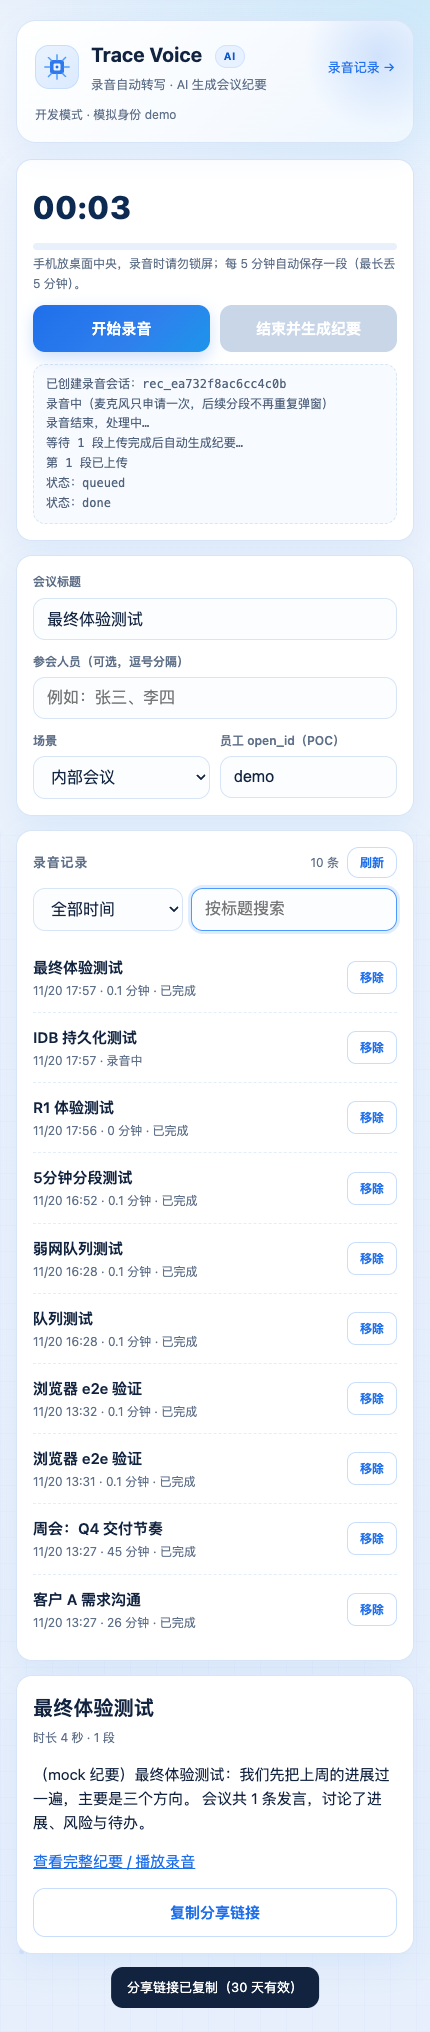
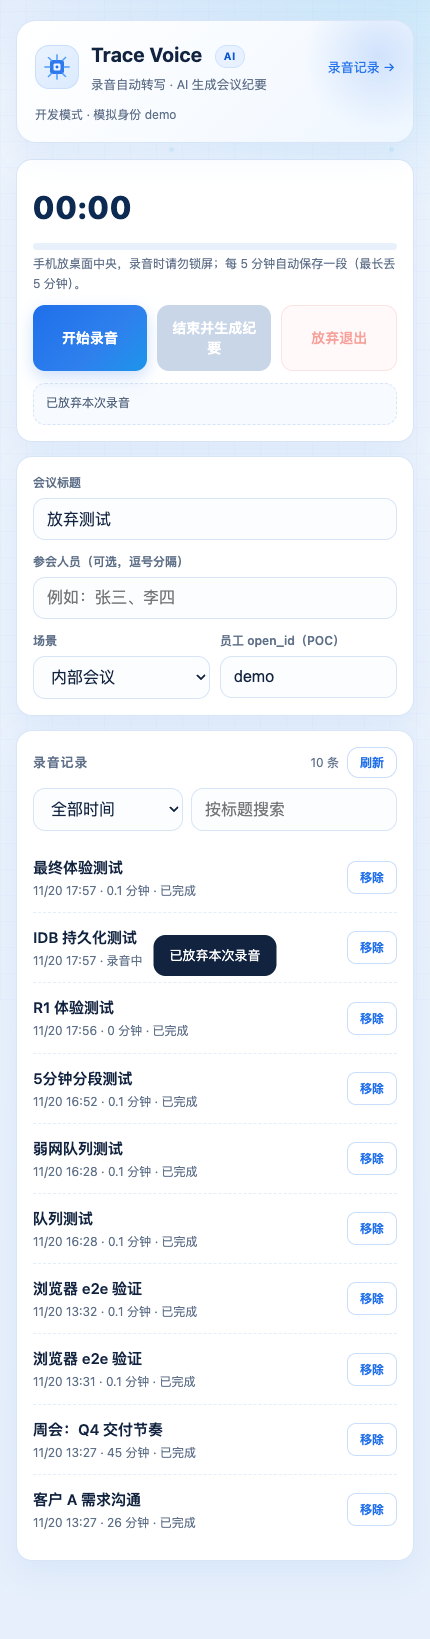
feishu-voice-recorder: 录音页新增「放弃退出」按钮
- 开始录音旁新增「放弃退出」：二次确认后停止录音、清空待上传队列并删除该录音
- 结束按钮文案精简为「结束生成纪要」，三按钮单行显示
- 录音状态统一由 setRecordingButtons 控制
- 浏览器实测：放弃后记录数不变、界面复位

Changed region(s): [[0.0302, 0.0, 0.9674, 0.9957]]

diff --git a/feishu-voice-recorder/web/recorder.html b/feishu-voice-recorder/web/recorder.html
@@ -37,7 +37,8 @@
     <div class="meta" id="hint">手机放桌面中央，录音时请勿锁屏；每 5 分钟自动保存一段（最长丢 5 分钟）。</div>
     <div class="row">
       <button id="btnStart">开始录音</button>
-      <button id="btnStop" class="danger" disabled>结束并生成纪要</button>
+      <button id="btnStop" class="danger" disabled title="结束并生成纪要">结束生成纪要</button>
+      <button id="btnAbort" class="ghost abort" disabled>放弃退出</button>
     </div>
     <div class="log" id="status" style="margin-top:12px"></div>
     <div class="row" id="retryBox" style="display:none"><button id="btnRetryUpload" class="danger">重试上传本段</button></div>
@@ -463,6 +464,12 @@ async function createRecording() {
     body: JSON.stringify({ title: $('#title').value.trim() || autoTitle(), scene: $('#scene').value }),
   });
 }
+function setRecordingButtons(recording) {
+  $('#btnStart').disabled = recording;
+  $('#btnStop').disabled = !recording;
+  $('#btnAbort').disabled = !recording;
+}
+
 function tick() {
   if (!state.running) return;
   const elapsed = Date.now() - state.startedAt;
@@ -506,8 +513,7 @@ async function startSession() {
   idbClear();
   localStorage.setItem('fm_rid', rec.id);
   log('已创建录音会话：' + rec.id);
-  $('#btnStart').disabled = true;
-  $('#btnStop').disabled = false;
+  setRecordingButtons(true);
   state.rec = new WavRecorder();
   await state.rec.start();
   acquireWakeLock();
@@ -526,7 +532,7 @@ async function stopSession() {
   clearInterval(state.tick);
   if (wakeLock) { try { await wakeLock.release(); } catch (e) {} wakeLock = null; }
   $('#dot').style.display = 'none';
-  $('#btnStop').disabled = true;
+  setRecordingButtons(false);
   const blob = state.rec.flush();
   enqueue(state.idx++, blob);
   await state.rec.stop();
@@ -582,7 +588,7 @@ async function poll() {
         catch (e) { toast('发送失败：' + e.message); }
       };
     }
-    $('#btnStart').disabled = false;
+    setRecordingButtons(false);
     loadRecords();
     return;
   }
@@ -595,7 +601,7 @@ async function poll() {
       await api('/recordings/' + state.rid + '/rerun', { method: 'POST' });
       poll();
     };
-    $('#btnStart').disabled = false;
+    setRecordingButtons(false);
     return;
   }
   setTimeout(poll, 2500);
@@ -626,9 +632,8 @@ async function startResume(rec) {
   state.pending = [];
   $('#result').style.display = 'none';
   $('#status').textContent = '';
-  $('#btnStart').disabled = true;
-  $('#btnStop').disabled = false;
   log('继续录音：' + rec.id + '，从第 ' + (state.idx + 1) + ' 段开始');
+  setRecordingButtons(true);
   state.rec = new WavRecorder();
   await state.rec.start();
   acquireWakeLock();
@@ -687,6 +692,32 @@ function renderRecords() {
 $('#recRange').addEventListener('change', renderRecords);
 $('#recSearch').addEventListener('input', renderRecords);
 
+/* ---------- 放弃退出 ---------- */
+async function abortSession() {
+  if (!state.running && !state.rid) return;
+  if (!confirm('放弃本次录音？已录内容不会生成纪要，且会被删除。')) return;
+  state.running = false;
+  clearTimeout(state.rotate);
+  clearInterval(state.tick);
+  state.finishing = false;
+  if (wakeLock) { try { await wakeLock.release(); } catch (e) {} wakeLock = null; }
+  const rid = state.rid;
+  try { if (state.rec) await state.rec.stop(); } catch (e) {}
+  state.pending = [];
+  idbClear();
+  localStorage.removeItem('fm_rid');
+  state.rid = null; state.idx = 0;
+  $('#dot').style.display = 'none';
+  $('#levelBar').style.width = '0%';
+  $('#timer').textContent = '00:00';
+  $('#status').textContent = '已放弃本次录音';
+  $('#result').style.display = 'none';
+  setRecordingButtons(false);
+  if (rid) { try { await api('/recordings/' + rid, { method: 'DELETE' }); } catch (e) { /* 忽略 */ } }
+  toast('已放弃本次录音');
+  try { if (window.tt && window.tt.closeWindow) window.tt.closeWindow({}); } catch (e) {}
+}
+
 /* ---------- 事件与初始化 ---------- */
 $('#btnStart').onclick = async () => {
   try { await startSession(); }
@@ -701,6 +732,7 @@ $('#btnStart').onclick = async () => {
   }
 };
 $('#btnStop').onclick = stopSession;
+$('#btnAbort').onclick = abortSession;
 $('#btnRelogin').onclick = () => ensureLogin();
 window.addEventListener('online', () => { if (state.pending.length) pump(); });
 window.addEventListener('beforeunload', (e) => {

diff --git a/feishu-voice-recorder/web/theme.css b/feishu-voice-recorder/web/theme.css
@@ -224,3 +224,7 @@ body.locked main { filter: blur(2px); pointer-events: none; user-select: none; }
 .toast { position: fixed; left: 50%; bottom: calc(24px + env(safe-area-inset-bottom)); transform: translateX(-50%) translateY(20px); z-index: 90;
   background: #12233f; color: #fff; padding: 10px 16px; border-radius: 12px; font-size: 13px; opacity: 0; pointer-events: none; transition: all .2s ease; max-width: 80vw; }
 .toast.show { opacity: 1; transform: translateX(-50%) translateY(0); }
+
+.row > button { min-width: 0; padding-left: 10px; padding-right: 10px; font-size: 14px; }
+button.abort { color: #f04438; border-color: #f7c9c5; background: #fff5f4; }
+#btnStop { font-size: 14px; }
